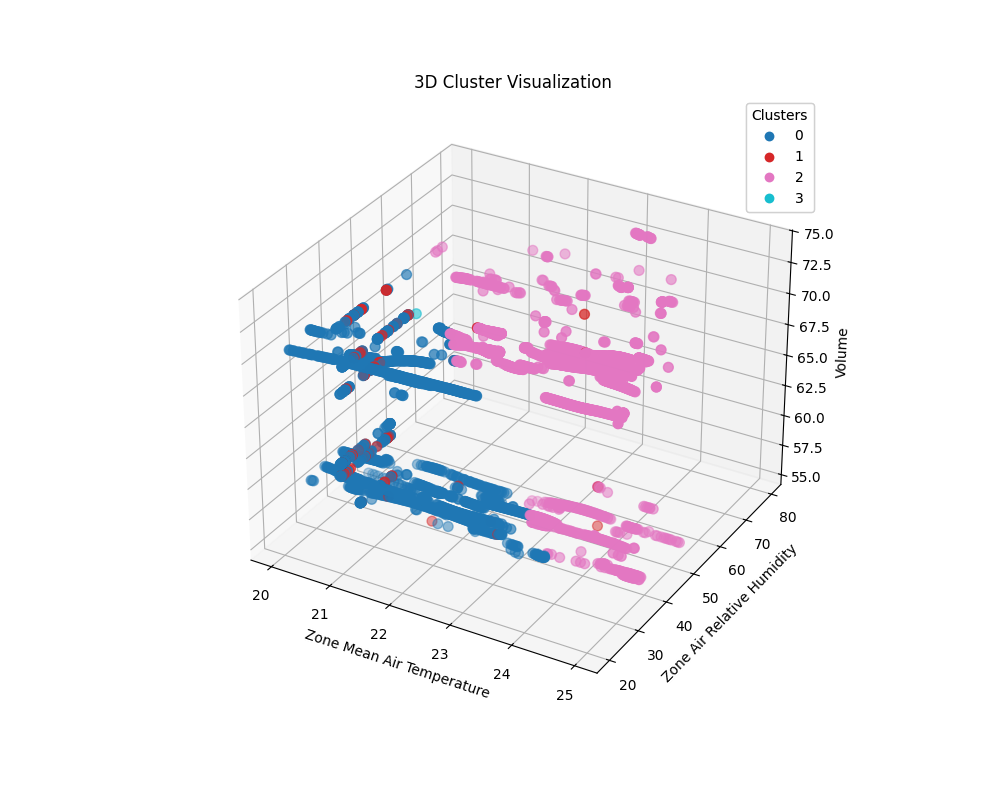
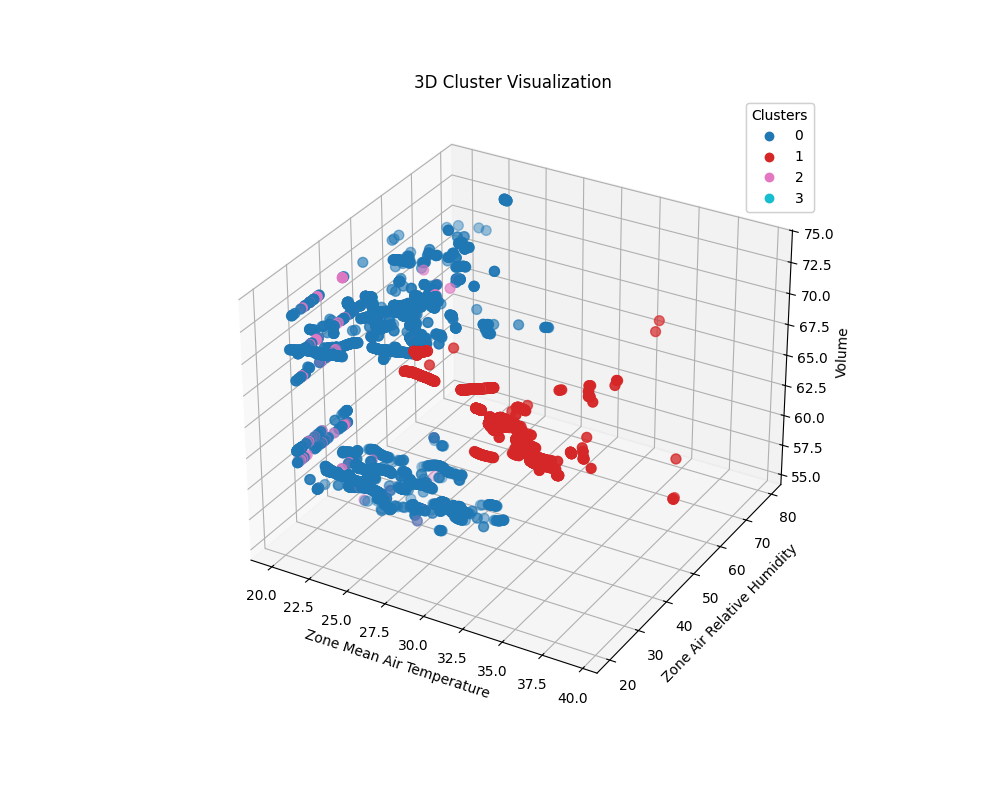
LR metrics

diff --git a/ML_realandsimulated/room_classification.py b/ML_realandsimulated/room_classification.py
@@ -9,6 +9,7 @@ from sklearn.compose import ColumnTransformer
 from sklearn.linear_model import LinearRegression
 from scipy.cluster.hierarchy import linkage, dendrogram
 from sklearn.decomposition import PCA
+from sklearn.metrics import mean_absolute_error, mean_squared_error
 
 ##############################
 # FUNZIONI DI SUPPORTO
@@ -86,7 +87,17 @@ def process_sensor_data(sensor_data, kmeans_model, scaler, assembler, cluster_ra
     )
     assembler_validate.fit(real_df)
     validation_results = validate_sensor_data(lr_model, sensor_data, assembler_validate)
-    
+    y_true = validation_results["co2"]
+    y_pred = validation_results["prediction"]
+
+    mae = mean_absolute_error(y_true, y_pred)
+    mse = mean_squared_error(y_true, y_pred)
+    rmse = np.sqrt(mse)
+
+    print(f"📐 Regression Metrics:")
+    print(f"   MAE  (Mean Absolute Error)      : {mae:.2f} ppm")
+    print(f"   MSE  (Mean Squared Error)       : {mse:.2f} ppm²")
+    print(f"   RMSE (Root Mean Squared Error)  : {rmse:.2f} ppm")
     return validation_results
 
 ##############################
@@ -196,7 +207,9 @@ sensor_data_1 = pd.DataFrame([{
     "temperature": 22.35, "humidity": 43.5, 
     "ventilation rate": 0.25, "volume": 65.0, "co2": 1150.0
 }])
-print("Sensor data 1:")
+
+print("\n##############################Start-Linear regression##############################")
+print("\n########Sensor 1:\n")
 print(sensor_data_1)
 
 # Passiamo come "merged_df" i dati reali per il fine-tuning
@@ -208,14 +221,14 @@ validation_results_1 = process_sensor_data(
     cluster_ranges=cluster_ranges,
     real_df=merged_df_real  # Solo dati reali per fine-tuning
 )
-print("Validation results 1:")
+
 print(validation_results_1)
 
 sensor_data_2 = pd.DataFrame([{
     "temperature": 22.35, "humidity": 43.5, 
     "ventilation rate": 0.25, "volume": 65.0, "co2": 5000.0
 }])
-print("Sensor data 2:")
+print("\n########Sensor 2:\n")
 print(sensor_data_2)
 
 validation_results_2 = process_sensor_data(
@@ -226,9 +239,9 @@ validation_results_2 = process_sensor_data(
     cluster_ranges=cluster_ranges,
     real_df=merged_df_real  # Fine-tuning su dati reali
 )
-print("Validation results 2:")
-print(validation_results_2)
 
+print(validation_results_2)
+print("\n##############################Stop-Linear regression##############################")
 ##############################
 # 5. VISUALIZZAZIONE
 ##############################
@@ -238,8 +251,8 @@ df_clusters = df_clusters[["temperature", "humidity", "volume", "CO2_variance"]]
 # Se volessimo visualizzare un cluster specifico, ad esempio quello con prediction == 3
 # (Notare che qui df_clusters non contiene la colonna "prediction", ma possiamo usare final_df se necessario)
 filtered_df = final_df[final_df["prediction"] == 3]
-print(filtered_df)
-print(f"Number of rows: {len(filtered_df)}")
+#print(filtered_df)
+#print(f"Number of rows: {len(filtered_df)}")
 
 # Pairplot
 sns.pairplot(

diff --git a/ML_real/room_classification.py b/ML_real/room_classification.py
@@ -9,6 +9,7 @@ from sklearn.preprocessing import FunctionTransformer
 from sklearn.compose import ColumnTransformer
 from sklearn.linear_model import LinearRegression
 from scipy.cluster.hierarchy import linkage, dendrogram
+from sklearn.metrics import mean_absolute_error, mean_squared_error
 
 def assign_to_cluster(kmeans_model, scaler_model, clustering_assembler, sensor_data):
     sensor_data["CO2_variance"] = 0.0  # Add a default CO2 variance column
@@ -60,7 +61,17 @@ def process_sensor_data(sensor_data, kmeans_model, scaler, assembler, cluster_ra
     )
     assembler_validate.fit(merged_df)
     validation_results = validate_sensor_data(lr_model, sensor_data, assembler_validate)
-    
+    y_true = validation_results["co2"]
+    y_pred = validation_results["prediction"]
+
+    mae = mean_absolute_error(y_true, y_pred)
+    mse = mean_squared_error(y_true, y_pred)
+    rmse = np.sqrt(mse)
+
+    print(f"📐 Regression Metrics:")
+    print(f"   MAE  (Mean Absolute Error)      : {mae:.2f} ppm")
+    print(f"   MSE  (Mean Squared Error)       : {mse:.2f} ppm²")
+    print(f"   RMSE (Root Mean Squared Error)  : {rmse:.2f} ppm")
     return validation_results
 
 # Train a regression model for a given cluster
@@ -174,6 +185,8 @@ output_path = "output_low_variance_clusters.csv"
 # Save clustered data to CSV
 variance_df.to_csv(output_path, index=False)
 
+print("\n##############################Start-Linear regression##############################")
+print("\n########Sensor 1:\n")
 sensor_data_1 = pd.DataFrame([
     {"temperature": 22.35, "humidity": 43.5, "ventilation rate": 0.25, "volume": 65.0, "co2": 1150.0}
 ])
@@ -189,6 +202,7 @@ validation_results_1 = process_sensor_data(
 
 print(validation_results_1)
 
+print("\n########Sensor 2:\n")
 sensor_data_2 = pd.DataFrame([
     {"temperature": 22.35, "humidity": 43.5, "ventilation rate": 0.25, "volume": 65.0, "co2": 5000.0}
 ])
@@ -204,6 +218,8 @@ validation_results_2 = process_sensor_data(
 )
 
 print(validation_results_2)
+
+print("\n##############################Stop-Linear regression##############################")
 df = pd.read_csv(output_path)
 
 df = df[[
@@ -215,9 +231,9 @@ df = df[[
 ]]
 
 filtered_df = df[df["prediction"] == 3]
-print(filtered_df)
+#print(filtered_df)
 count = len(filtered_df)
-print(f"Number of rows: {count}")
+#print(f"Number of rows: {count}")
 # Visualization
 sns.pairplot(
     df,

diff --git a/ML_real_decay/room_classification.py b/ML_real_decay/room_classification.py
@@ -9,6 +9,7 @@ from sklearn.preprocessing import FunctionTransformer
 from sklearn.compose import ColumnTransformer
 from sklearn.linear_model import LinearRegression
 from scipy.cluster.hierarchy import linkage, dendrogram
+from sklearn.metrics import mean_absolute_error, mean_squared_error
 
 def assign_to_cluster(kmeans_model, scaler_model, clustering_assembler, sensor_data):
     sensor_data["CO2_variance"] = 0.0  # Add a default CO2 variance column
@@ -60,7 +61,17 @@ def process_sensor_data(sensor_data, kmeans_model, scaler, assembler, cluster_ra
     )
     assembler_validate.fit(merged_df)
     validation_results = validate_sensor_data(lr_model, sensor_data, assembler_validate)
-    
+    y_true = validation_results["co2"]
+    y_pred = validation_results["prediction"]
+
+    mae = mean_absolute_error(y_true, y_pred)
+    mse = mean_squared_error(y_true, y_pred)
+    rmse = np.sqrt(mse)
+
+    print(f"📐 Regression Metrics:")
+    print(f"   MAE  (Mean Absolute Error)      : {mae:.2f} ppm")
+    print(f"   MSE  (Mean Squared Error)       : {mse:.2f} ppm²")
+    print(f"   RMSE (Root Mean Squared Error)  : {rmse:.2f} ppm")
     return validation_results
 
 # Train a regression model for a given cluster
@@ -174,6 +185,8 @@ output_path = "output_low_variance_clusters.csv"
 # Save clustered data to CSV
 variance_df.to_csv(output_path, index=False)
 
+print("\n##############################Start-Linear regression##############################")
+print("\n########Sensor 1:\n")
 sensor_data_1 = pd.DataFrame([
     {"temperature": 22.35, "humidity": 43.5, "ventilation rate": 0.25, "volume": 65.0, "co2": 1150.0}
 ])
@@ -189,6 +202,7 @@ validation_results_1 = process_sensor_data(
 
 print(validation_results_1)
 
+print("\n########Sensor 2:\n")
 sensor_data_2 = pd.DataFrame([
     {"temperature": 22.35, "humidity": 43.5, "ventilation rate": 0.25, "volume": 65.0, "co2": 5000.0}
 ])
@@ -204,6 +218,8 @@ validation_results_2 = process_sensor_data(
 )
 
 print(validation_results_2)
+
+print("\n##############################Stop-Linear regression##############################")
 df = pd.read_csv(output_path)
 
 df = df[[
@@ -215,9 +231,9 @@ df = df[[
 ]]
 
 filtered_df = df[df["prediction"] == 3]
-print(filtered_df)
+#print(filtered_df)
 count = len(filtered_df)
-print(f"Number of rows: {count}")
+#print(f"Number of rows: {count}")
 # Visualization
 sns.pairplot(
     df,

diff --git a/ML_simulated_decay/room_classification.py b/ML_simulated_decay/room_classification.py
@@ -9,6 +9,7 @@ from sklearn.preprocessing import FunctionTransformer
 from sklearn.compose import ColumnTransformer
 from sklearn.linear_model import LinearRegression
 from scipy.cluster.hierarchy import linkage, dendrogram
+from sklearn.metrics import mean_absolute_error, mean_squared_error
 
 def assign_to_cluster(kmeans_model, scaler_model, clustering_assembler, sensor_data):
     sensor_data["CO2_variance"] = 0.0  # Add a default CO2 variance column
@@ -60,7 +61,17 @@ def process_sensor_data(sensor_data, kmeans_model, scaler, assembler, cluster_ra
     )
     assembler_validate.fit(merged_df)
     validation_results = validate_sensor_data(lr_model, sensor_data, assembler_validate)
-    
+    y_true = validation_results["co2"]
+    y_pred = validation_results["prediction"]
+
+    mae = mean_absolute_error(y_true, y_pred)
+    mse = mean_squared_error(y_true, y_pred)
+    rmse = np.sqrt(mse)
+
+    print(f"📐 Regression Metrics:")
+    print(f"   MAE  (Mean Absolute Error)      : {mae:.2f} ppm")
+    print(f"   MSE  (Mean Squared Error)       : {mse:.2f} ppm²")
+    print(f"   RMSE (Root Mean Squared Error)  : {rmse:.2f} ppm")
     return validation_results
 
 # Train a regression model for a given cluster
@@ -176,6 +187,8 @@ output_path = "output_low_variance_clusters.csv"
 # Save clustered data to CSV
 variance_df.to_csv(output_path, index=False)
 
+print("\n##############################Start-Linear regression##############################")
+print("\n########Sensor 1:\n")
 sensor_data_1 = pd.DataFrame([
     {"temperature": 22.35, "humidity": 43.5, "ventilation rate": 0.25, "volume": 65.0, "co2": 1150.0}
 ])
@@ -191,6 +204,7 @@ validation_results_1 = process_sensor_data(
 
 print(validation_results_1)
 
+print("\n########Sensor 2:\n")
 sensor_data_2 = pd.DataFrame([
     {"temperature": 22.35, "humidity": 43.5, "ventilation rate": 0.25, "volume": 65.0, "co2": 5000.0}
 ])
@@ -206,6 +220,8 @@ validation_results_2 = process_sensor_data(
 )
 
 print(validation_results_2)
+
+print("\n##############################Stop-Linear regression##############################")
 df = pd.read_csv(output_path)
 
 df = df[[
@@ -217,9 +233,9 @@ df = df[[
 ]]
 
 filtered_df = df[df["prediction"] == 3]
-print(filtered_df)
+#print(filtered_df)
 count = len(filtered_df)
-print(f"Number of rows: {count}")
+#print(f"Number of rows: {count}")
 # Visualization
 sns.pairplot(
     df,

diff --git a/ML_simulated/room_classification_3.py b/ML_simulated/room_classification_3.py
@@ -9,6 +9,8 @@ import seaborn as sns
 from mpl_toolkits.mplot3d import Axes3D
 import h5py
 from scipy.cluster.hierarchy import linkage, dendrogram
+from pyspark.ml.evaluation import RegressionEvaluator
+from sklearn.metrics import mean_absolute_error, mean_squared_error
 
 
 def assign_to_cluster(kmeans_model, scaler_model, clustering_assembler, sensor_data):
@@ -81,7 +83,16 @@ def process_sensor_data(sensor_data, kmeans_model, scaler_model, assembler, clus
     print(f"Sensor data is assigned to cluster: {sensor_cluster_id}")
     lr_model = train_regression_for_cluster(sensor_cluster_id, cluster_ranges, merged_df)
     validation_results = validate_sensor_data(lr_model, scaled_sensor_data)
-    
+    evaluator = RegressionEvaluator(labelCol="Zone Air CO2 Concentration", predictionCol="prediction")
+
+    mae = evaluator.setMetricName("mae").evaluate(validation_results)
+    mse = evaluator.setMetricName("mse").evaluate(validation_results)
+    rmse = evaluator.setMetricName("rmse").evaluate(validation_results)
+
+    print("📐 Regression Metrics (Spark):")
+    print(f"   MAE  (Mean Absolute Error)      : {mae:.2f} ppm")
+    print(f"   MSE  (Mean Squared Error)       : {mse:.2f} ppm²")
+    print(f"   RMSE (Root Mean Squared Error)  : {rmse:.2f} ppm")
     return validation_results
 
 spark = SparkSession.builder \
@@ -223,6 +234,8 @@ distinct_values_df = final_df.groupBy("prediction").agg(
 
 distinct_values_df.show()
 
+print("\n##############################Start-Linear regression##############################")
+print("\n########Sensor 1:\n")
 sensor_data = spark.createDataFrame([
     {"Zone Mean Air Temperature": 22.35, "Zone Air Relative Humidity": 43.5, "Ventilation": 0.25, "_volume": 65.0, "Zone Air CO2 Concentration": 1150.0}
 ])
@@ -238,6 +251,7 @@ validation_results = process_sensor_data(
 
 validation_results.show()
 
+print("\n########Sensor 2:\n")
 sensor_data = spark.createDataFrame([
     {"Zone Mean Air Temperature": 22.35, "Zone Air Relative Humidity": 43.5, "Ventilation": 0.25, "_volume": 65.0, "Zone Air CO2 Concentration": 5000.0}
 ])
@@ -255,6 +269,7 @@ validation_results = process_sensor_data(
 
 validation_results.show()
 
+print("\n##############################Stop-Linear regression##############################")
 spark.stop()
 
 df = pd.read_parquet(output_path)
